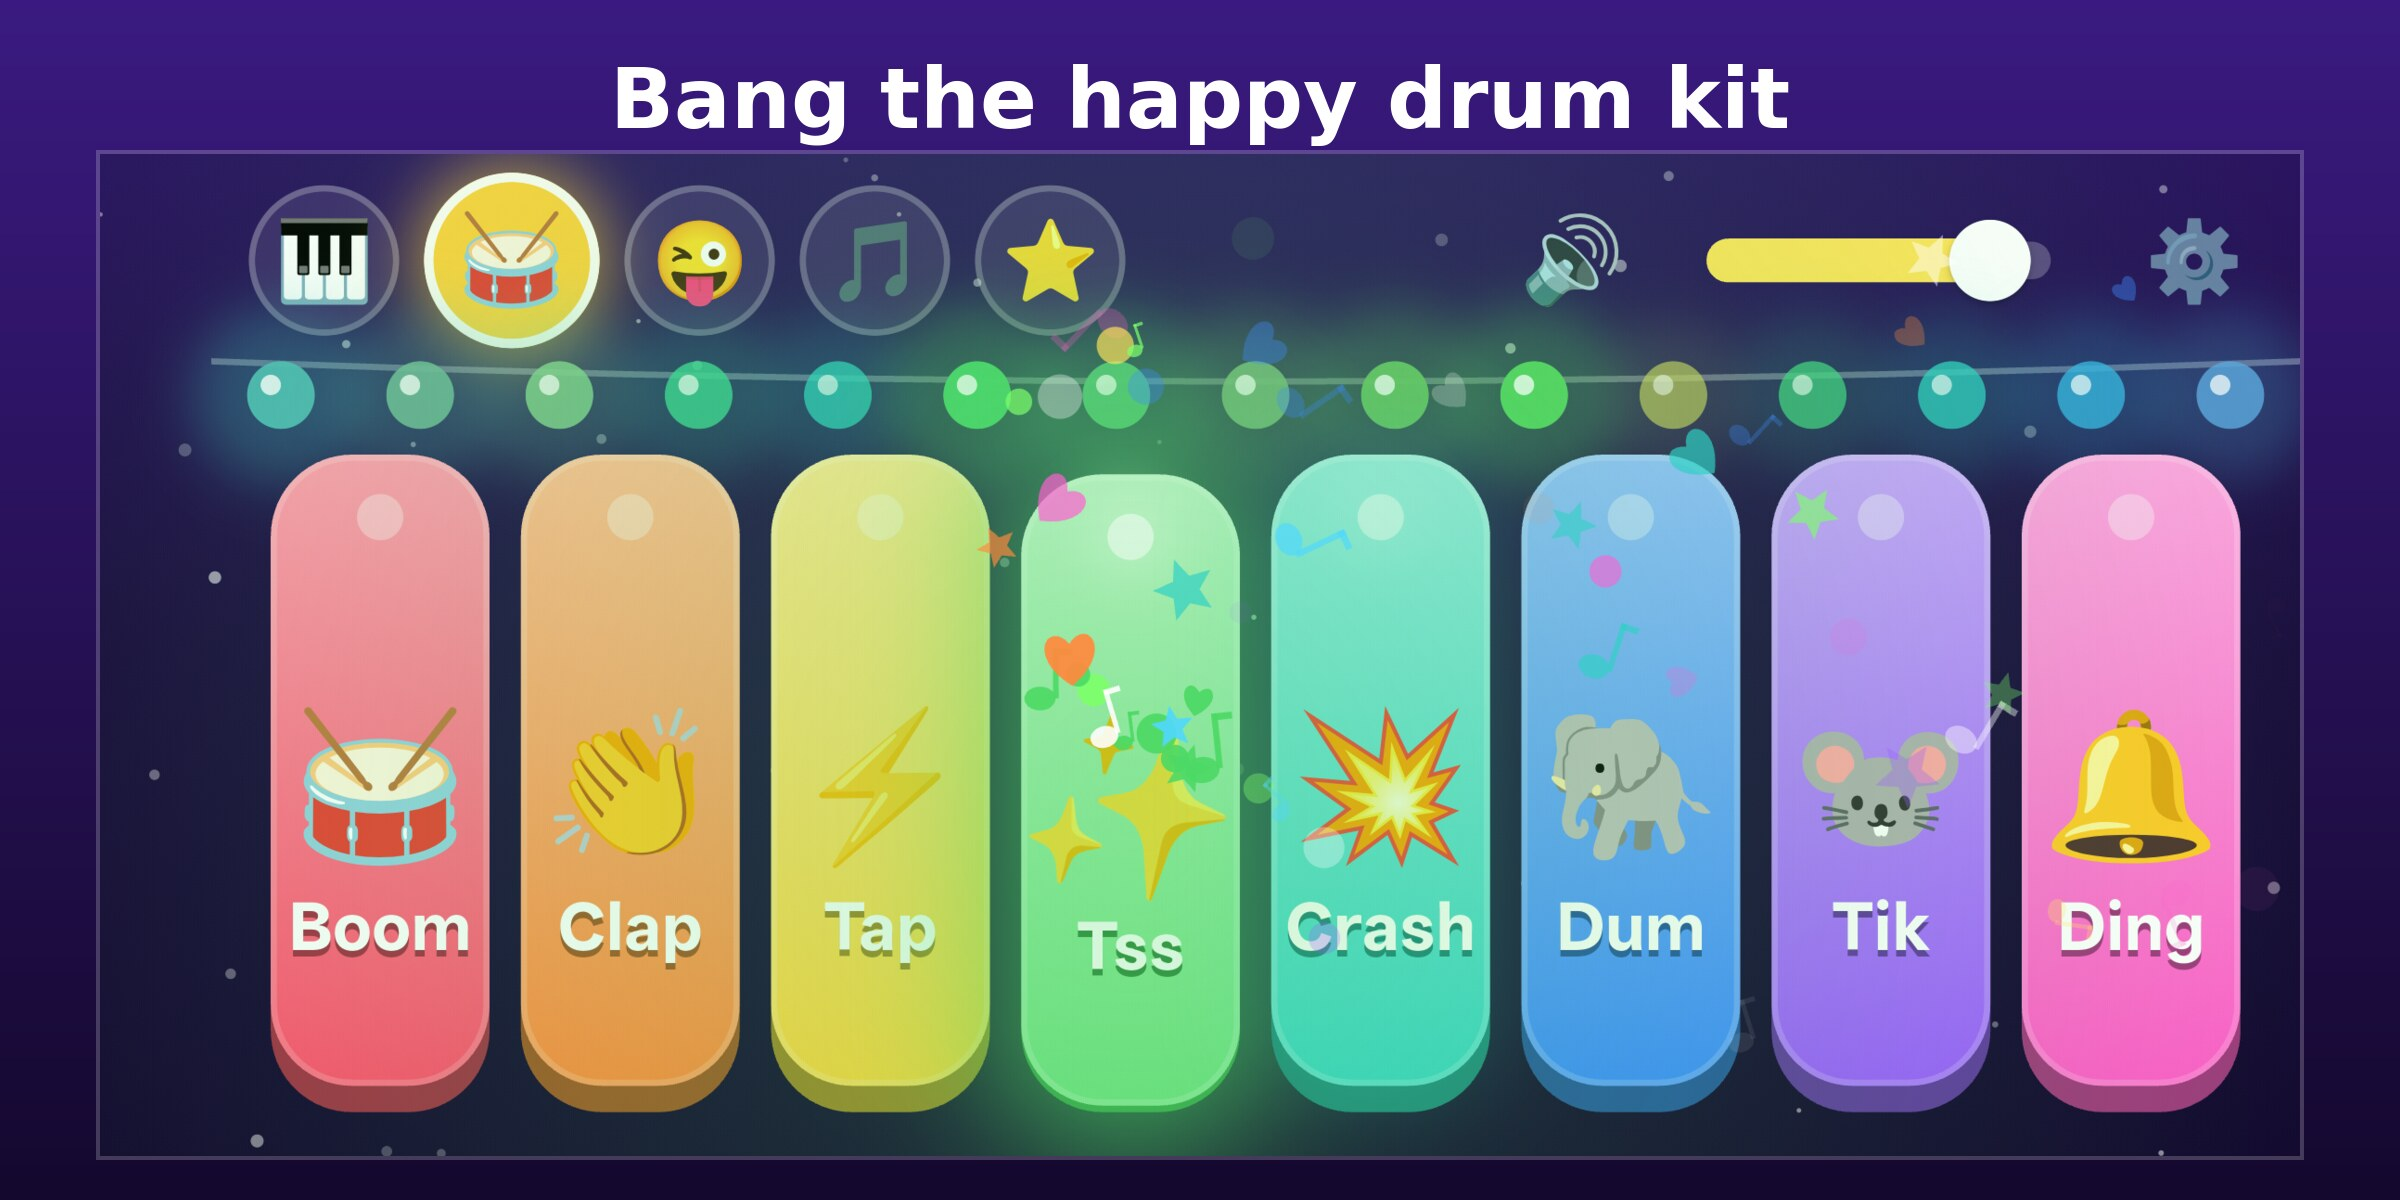
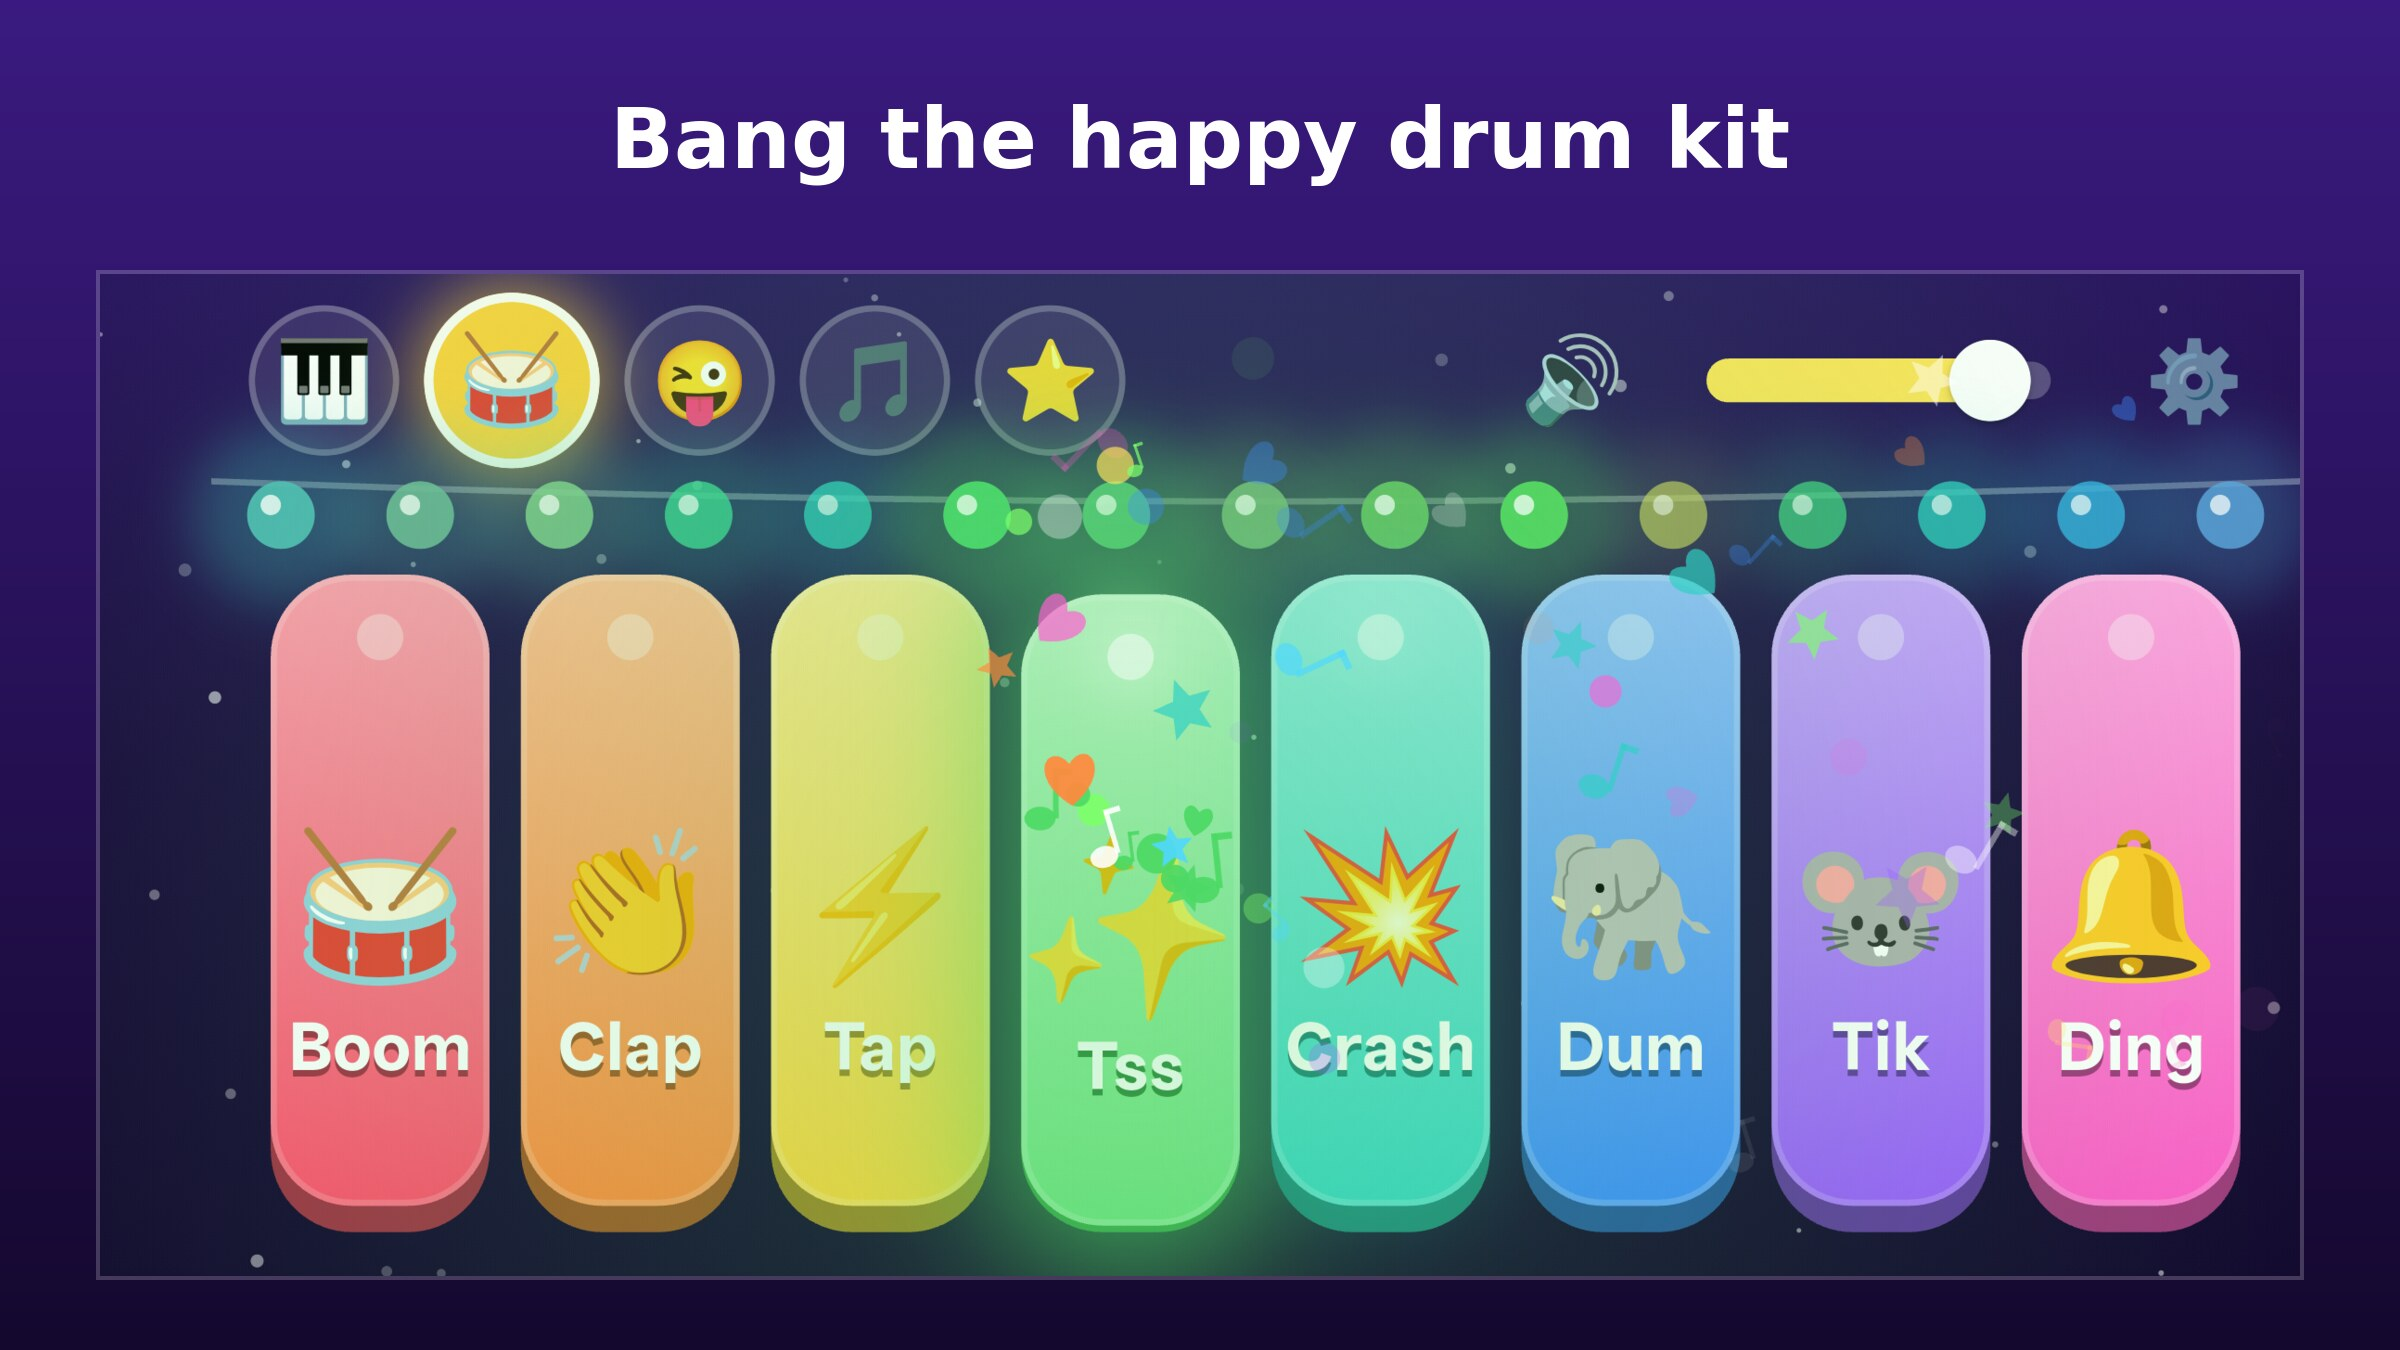
store: 16:9 screenshots (Play requirement)

diff --git a/store/listing.md b/store/listing.md
@@ -40,7 +40,7 @@ Privacy policy: https://tools.homilabs.org/privacy#rainbowkeys
 - Category: Music (alt. Education) · Tags: Music, Kids
 - Contact email: homilabs.smc@gmail.com · Website: https://tools.homilabs.org/
 - Privacy policy URL: https://tools.homilabs.org/privacy#rainbowkeys
-- Graphics: `store/play-icon-512.png`, `store/feature-graphic-1024x500.png`, phone screenshots (JPEG, Play limit 8 MB) in
+- Graphics: `store/play-icon-512.png`, `store/feature-graphic-1024x500.png`, phone and tablet screenshots (16:9 JPEG, Play limit 8 MB) in
   `store/screenshots/` (regenerate with `store/make_store.sh` from `store/raw/`)
 
 ## App content answers
